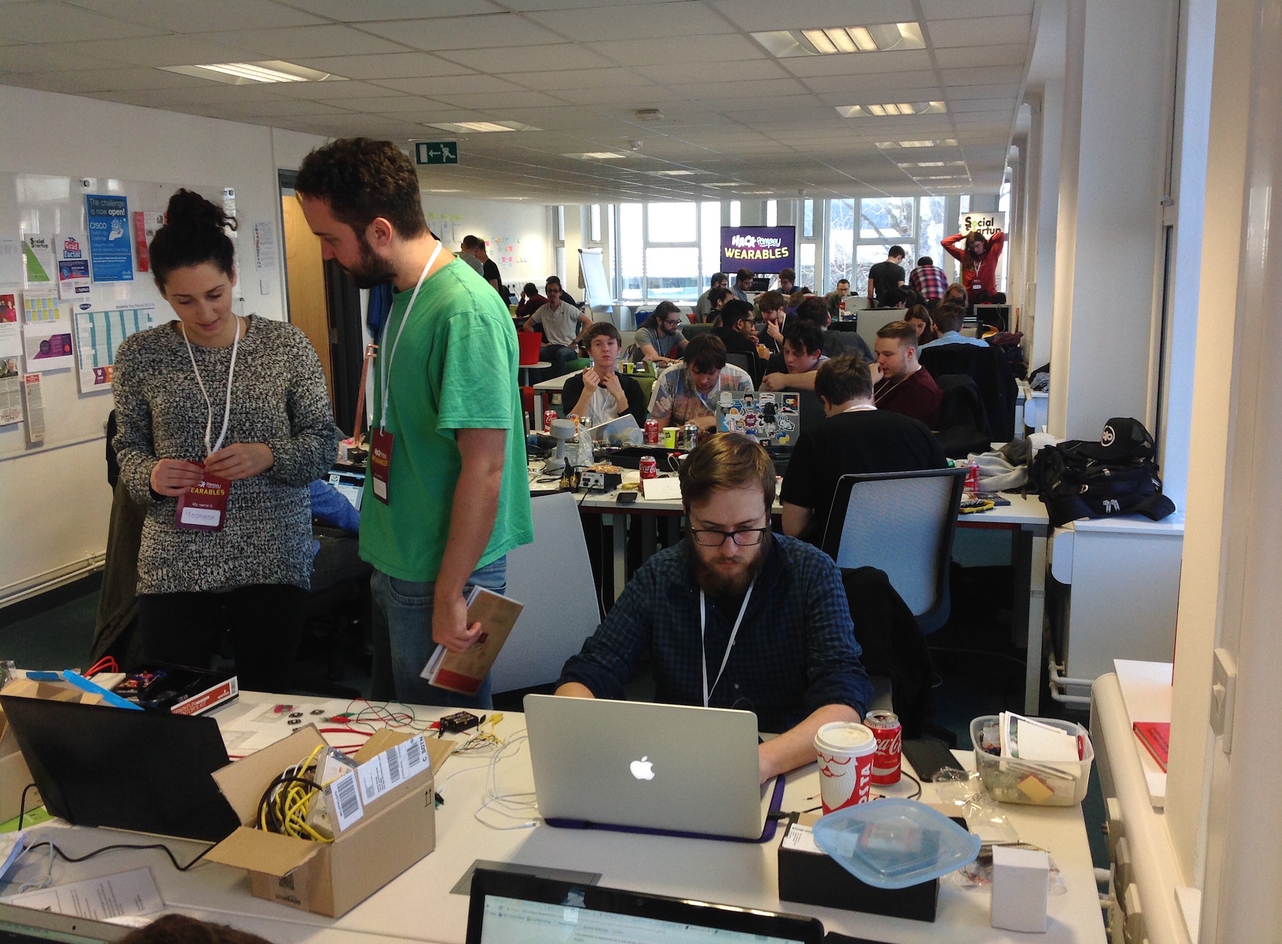
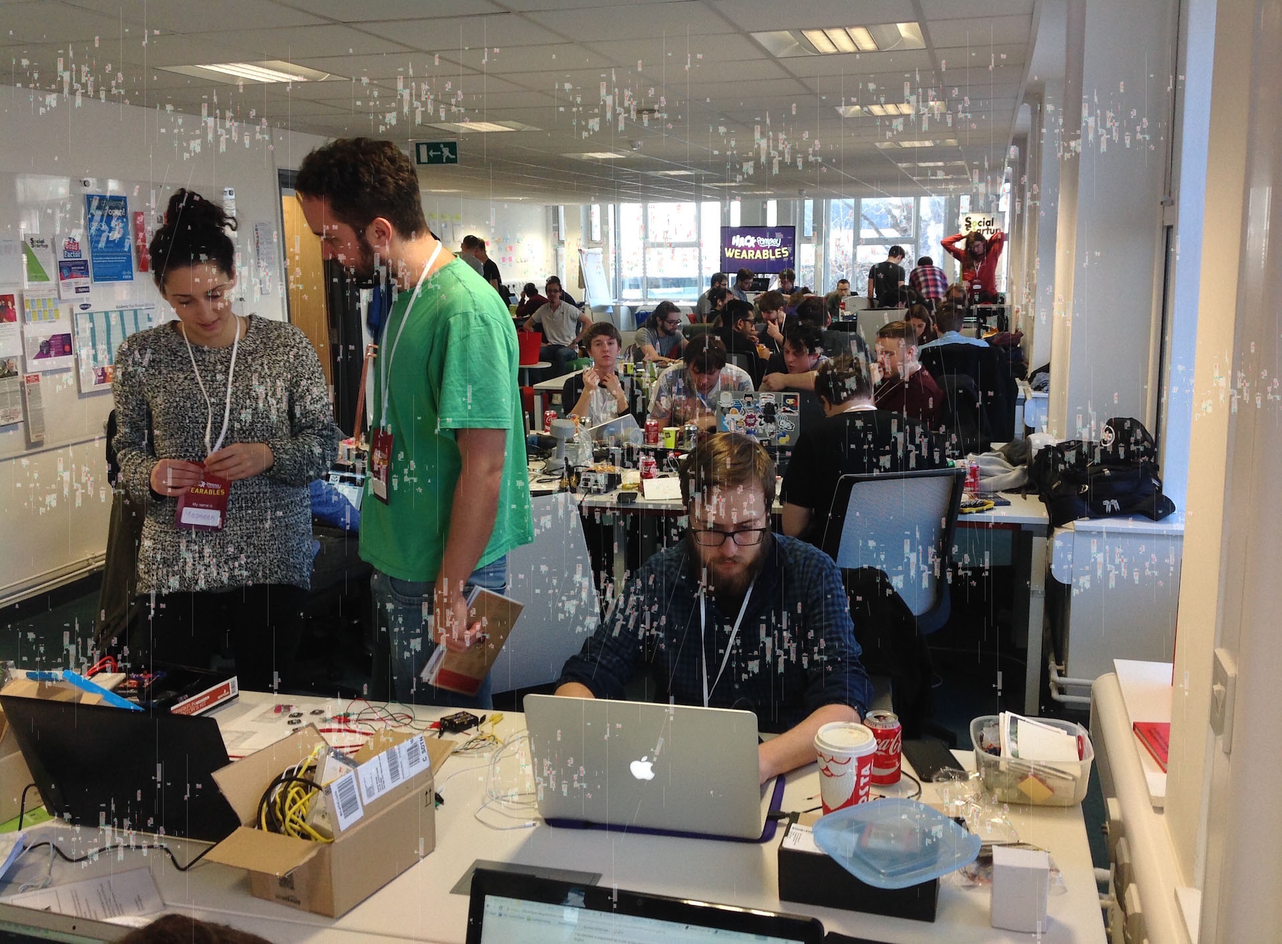
Added gradient and noise to homepage image

diff --git a/scss/_home.scss b/scss/_home.scss
@@ -3,11 +3,11 @@
 .page-background {
 	width: 100%;
 	height: 75vh;
-	background-image: url('../images/home-background.jpg');
-	background-size: cover;
-	background-attachment: fixed;
 	margin-bottom: 12vh;
 	background-position-x: center;
+	background: linear-gradient(to top right, rgba(255, 0, 0, .75), rgba(31, 150, 104, .75)), url('../images/home-background.jpg');
+	background-size: cover;
+	background-attachment: fixed;
 }
 
 .about {
